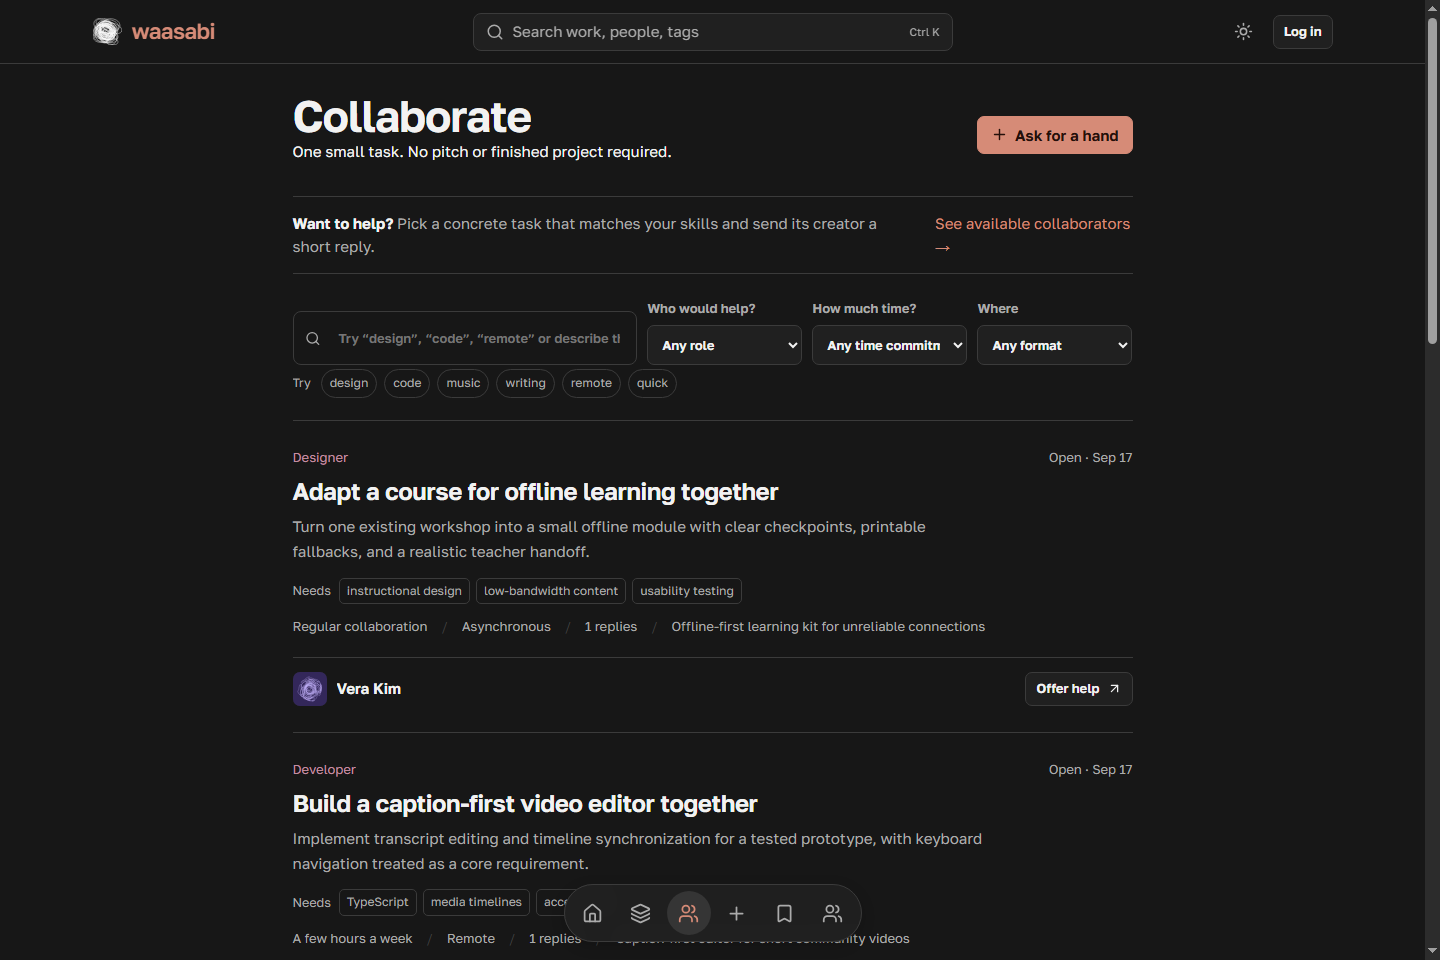
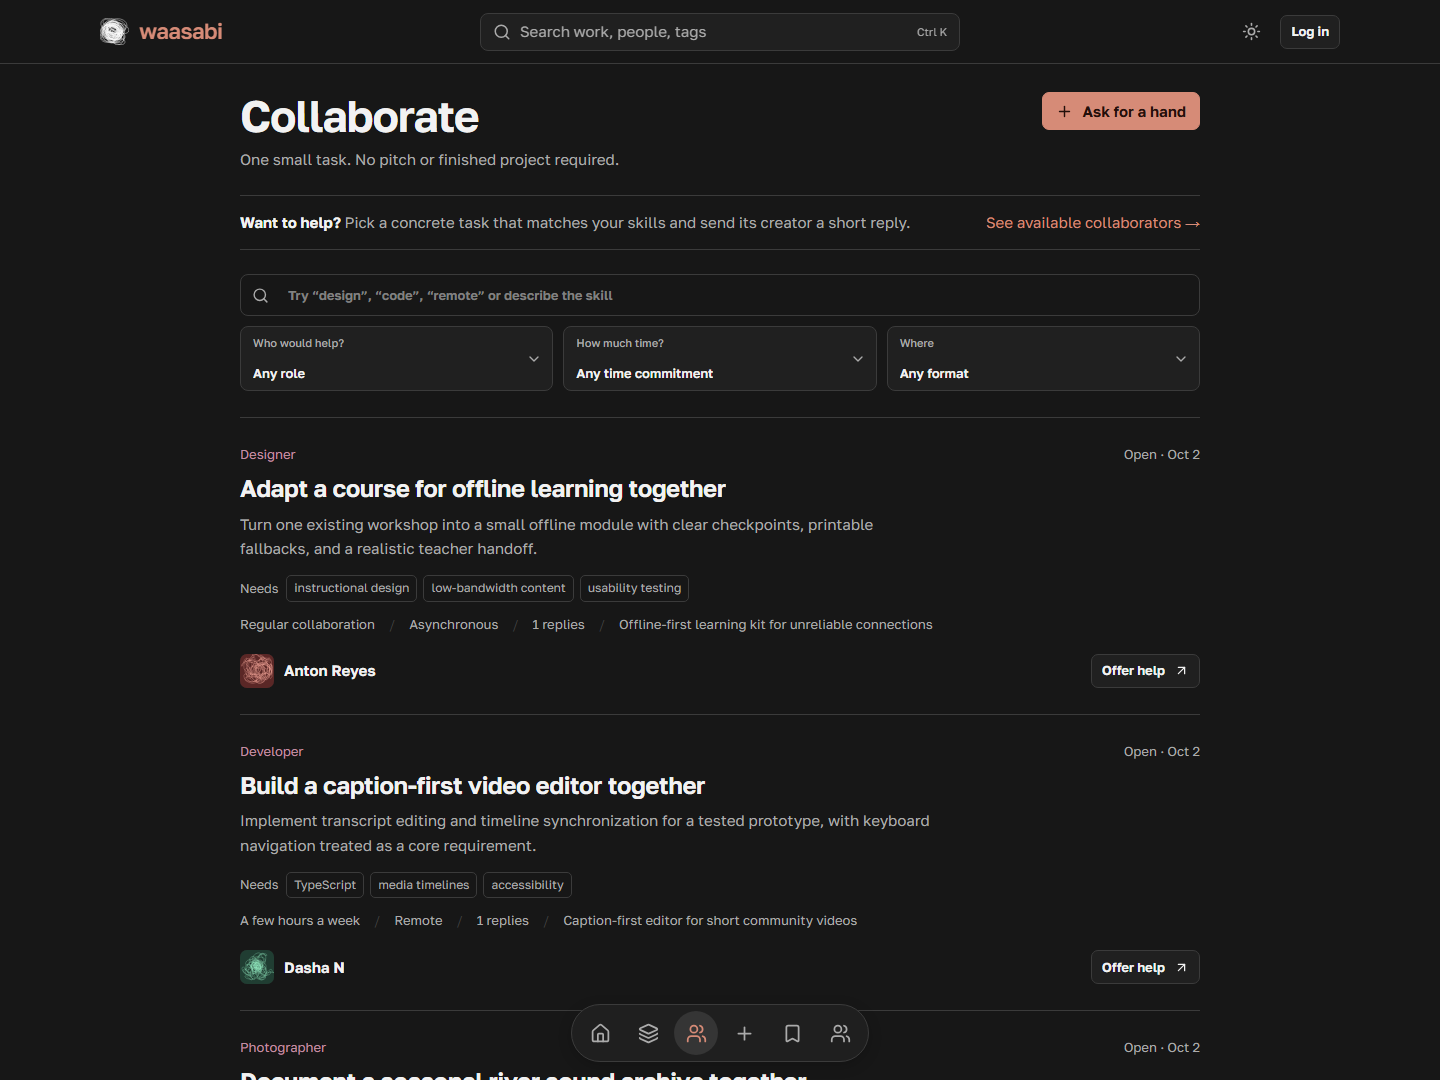
docs: refresh README and screenshot assets

diff --git a/database/seeders/ReadmeScreenshotSeeder.php b/database/seeders/ReadmeScreenshotSeeder.php
@@ -1,0 +1,58 @@
+<?php
+
+namespace Database\Seeders;
+
+use App\Models\Post;
+use App\Models\ProjectUpdate;
+use App\Models\User;
+use Illuminate\Database\Seeder;
+
+class ReadmeScreenshotSeeder extends Seeder
+{
+    public function run(): void
+    {
+        $this->call(WaasabiDemoSeeder::class);
+
+        $posts = [
+            ['night-bus-photo-essay', 'vera-kim', 'Night bus, after dark',
+                'Thirty evenings of rain, reflections, and the last route home.', 'night-bus'],
+            ['procedural-moss-game', 'emil-saar', 'Pocket Garden',
+                'A ten-minute exploration game. One courtyard, a little moss, and room to wander.', 'pocket-garden'],
+            ['open-source-looper-pedal', 'maja-lind', 'Loop: a repairable looper',
+                'An open-source music pedal with common parts and controls you can feel.', 'looper'],
+        ];
+
+        $users = User::query()->where('is_banned', false)->get();
+        foreach ($posts as $index => [$slug, $authorSlug, $title, $subtitle, $artwork]) {
+            $author = $users->firstWhere('slug', $authorSlug);
+            $post = Post::query()->where('slug', $slug)->firstOrFail();
+            $cover = '/images/readme/'.$artwork.'.jpg';
+            $post->update([
+                'user_id' => $author->id,
+                'is_project' => $artwork === 'looper',
+                'title' => $title,
+                'subtitle' => $subtitle,
+                'cover_url' => $cover,
+                'album_urls' => [],
+                'feedback_mode' => 'feedback',
+                'activity_at' => now()->subMinutes($index),
+            ]);
+            $post->forceFill(['created_at' => $post->published_at])->saveQuietly();
+            $post->upvoters()->sync($users->where('id', '!=', $author->id)->take(24 - $index * 3)->pluck('id'));
+            $author->update([
+                'featured_post_id' => $post->id,
+                'banner_url' => $cover,
+                'headline' => ['Documentary photographer', 'Independent game developer', 'Sound designer and hardware maker'][$index],
+            ]);
+            $author->showcaseProjects()->sync([$post->id => ['position' => 0]]);
+
+            if ($post->is_project) {
+                ProjectUpdate::updateOrCreate(['post_id' => $post->id, 'title' => 'First playable prototype'], [
+                    'user_id' => $author->id,
+                    'body' => "![The assembled looper prototype]({$cover})\n\nThe first enclosure is assembled. Four pads control record, play, overdub, and undo.\n\nNext: test the controls with musicians and publish the enclosure files.",
+                    'is_hidden' => false,
+                ]);
+            }
+        }
+    }
+}

diff --git a/README.md b/README.md
@@ -1,60 +1,162 @@
-# Waasabi
+<p align="center">
+  <img src="docs/screenshots/overview.gif" alt="Waasabi preview: feed, work, project, collaborations, and profile, one second per view" width="100%">
+</p>
 
-Waasabi is a community for software, IT, design, video production, and practical collaboration.
+<h1 align="center">Waasabi</h1>
 
-People can publish work, document a project, ask for feedback, and find collaborators. Each collaboration response opens a private conversation between the project owner and the candidate.
+<p align="center">
+  <strong>Share your work. Keep a project journal. Find a helping hand.</strong>
+</p>
 
-![Waasabi feed](docs/screenshots/feed.png)
+<p align="center">
+  <a href="#features">Features</a> ·
+  <a href="#screenshots">Screenshots</a> ·
+  <a href="#local-setup">Local setup</a> ·
+  <a href="#checks">Checks</a> ·
+  <a href="docs/README.md">Docs</a>
+</p>
 
-## Main features
+Waasabi is a community for people who build software, design interfaces, edit video, and make things together.
+Publish a finished work, document a project, or ask a practical question. Keep the work and its discussion in one place.
 
-- A discovery feed with tags, search, and hot and new sorting modes.
-- Work and question pages with media, discussions, feedback, and answer voting.
-- Project pages with journals, teams, followers, and open collaboration requests.
-- Profiles with project showcases, statistics, posts, and collaboration history.
-- Private collaboration threads for each response.
-- Notifications, saved work, moderation tools, and role-based access.
+## Features
+
+- **Share work.** Publish text, images, galleries, files, and links. Ask for feedback or discuss the result.
+- **Keep a project journal.** Add updates, invite a team, and let people follow your progress.
+  Turn a standalone work into a project without changing its address or losing its discussion.
+- **Ask questions.** Use answer voting and threaded replies to compare suggestions.
+- **Find a helping hand.** Describe a concrete task and the time it needs. A collaboration request can exist separately or belong to a project.
+  Each response opens a private conversation between the request author and the candidate.
+- **Build a profile.** Show your work, feature a project, list your skills, and show your availability.
+- **Discover and return.** Search work, people, and tags. Follow authors and projects, save work, and receive notifications.
+- **Moderate the community.** Review reports, manage content and accounts, and control access through roles and permissions.
 
 ## Screenshots
 
-| Work | Collaborations | Profile |
-| --- | --- | --- |
-| ![A published work](docs/screenshots/work.png) | ![Open collaboration requests](docs/screenshots/collaborations.png) | ![A creator profile](docs/screenshots/profile.png) |
+Expand a view to see the full image.
 
-The [screenshot workflow](.github/workflows/screenshots.yml) updates these images from seeded data after interface changes. Do not edit the PNG files manually.
+<details>
+<summary><strong>Feed · Photography, games, projects, and open requests</strong></summary>
+
+![Waasabi discovery feed with illustrated work and open collaboration requests](docs/screenshots/feed.png)
+
+</details>
+
+<details>
+<summary><strong>Work · Feedback, threaded replies, and comment sorting</strong></summary>
+
+![Waasabi work discussion with threaded replies and New, Old, and Best sorting](docs/screenshots/work.png)
+
+</details>
+
+<details>
+<summary><strong>Project · An ongoing build with updates and a team</strong></summary>
+
+![Waasabi music hardware project with an illustrated journal update and project details](docs/screenshots/project.png)
+
+</details>
+
+<details>
+<summary><strong>Collaborations · Concrete tasks and people who can help</strong></summary>
+
+![Waasabi collaboration page with role filters, time commitments, and open requests](docs/screenshots/collaborations.png)
+
+</details>
+
+<details>
+<summary><strong>Profile · Work, projects, and contributions in one place</strong></summary>
+
+![Waasabi profile page with a banner, creator statistics, and a project showcase](docs/screenshots/profile.png)
+
+</details>
+
+The [screenshot workflow](.github/workflows/screenshots.yml) captures these views from a dedicated sample database after interface changes.
+It also creates the GIF, with one second per view. The sample post covers use [generated artwork](docs/screenshots/artwork-prompts.md).
+
+<details>
+<summary><strong>Refresh the screenshots locally</strong></summary>
+
+The capture script needs Chrome, FFmpeg, and a local server.
+Create a separate SQLite database. Set `DB_DATABASE` to its absolute path before you run these commands:
+
+```bash
+php artisan migrate
+php artisan db:seed --class=ReadmeScreenshotSeeder
+php artisan serve --host=127.0.0.1 --port=8081
+```
+
+In another terminal, run `npm run screenshots`.
+If the server uses another address, set `WAASABI_URL` before capture.
+
+</details>
 
 ## Stack
 
-Waasabi uses Laravel 12, Inertia 3, React 19, TypeScript, Tiptap 3, and Vite. SQLite is the default local database.
+| Part | Tools |
+| --- | --- |
+| Server | PHP 8.2+, Laravel 12, Eloquent |
+| Interface | Inertia 3, React 19, TypeScript |
+| Editor | Tiptap 3, Markdown |
+| Assets | Vite |
+| Local database | SQLite |
+
+Laravel handles routes, validation, permissions, and data. React renders the main community pages through Inertia.
+Blade serves support and selected administrative pages. Node.js builds the assets.
 
 ## Local setup
 
-Requirements: PHP 8.2 or later, Composer 2, Node.js 22, SQLite, and GD.
+Install PHP 8.2 or later with PDO SQLite and GD, Composer 2, and Node.js 22.12 or later.
+Run these commands from the repository root. The file commands work in PowerShell and Bash.
 
 ```bash
 composer install
 npm ci
-cp .env.example .env
-touch database/waasabi.sqlite
+php -r "file_exists('.env') || copy('.env.example', '.env');"
+php -r "file_exists('database/waasabi.sqlite') || touch('database/waasabi.sqlite');"
 php artisan key:generate
 php artisan migrate
 php artisan storage:link
 npm run build
-php artisan serve
+php artisan serve --host=127.0.0.1 --port=8081
 ```
 
-Run `php artisan db:seed --class=WaasabiDemoSeeder` to add local sample content.
+Open **http://127.0.0.1:8081**.
+
+For sample work, profiles, and collaboration requests, run this command in another terminal:
+
+```bash
+php artisan db:seed --class=WaasabiDemoSeeder
+```
+
+To create an administrator, run `php artisan admin:create owner@example.com`.
+The command asks for a password.
+
+For interface development, run `npm run dev` in another terminal.
+On Windows, `./start.ps1` starts the local PHP server for an existing installation.
 
 ## Checks
 
 ```bash
 php artisan test
+php vendor/bin/pint --test
 npm test
 npm run build
 composer audit
 npm audit
 ```
 
-See [deployment](docs/DEPLOYMENT.md) and [architecture](docs/ARCHITECTURE.md) for more information.
+`npm run build` checks TypeScript before it builds the assets.
+PHP tests use a separate database.
 
-See [LICENSE](LICENSE) for the license terms.
+## Documentation
+
+- [Documentation index](docs/README.md) lists the project guides.
+- [Architecture](docs/ARCHITECTURE.md) explains the runtime and security boundaries.
+- [Codebase map](docs/CODEBASE_MAP.md) locates controllers, pages, models, and tests.
+- [Code cleanliness](docs/CODE_CLEANLINESS.md) defines the maintenance conventions.
+- [Maintenance plan](docs/MAINTENANCE_PLAN.md) lists recurring checks.
+- [Deployment](docs/DEPLOYMENT.md) covers production configuration, the scheduler, backups, and release commands.
+
+## License
+
+Copyright © KristopherZlo. All rights reserved. See [LICENSE](LICENSE) for the terms.

diff --git a/docs/screenshots/artwork-prompts.md b/docs/screenshots/artwork-prompts.md
@@ -1,0 +1,16 @@
+# Sample post artwork
+
+The README shows demonstration posts from a separate database.
+The built-in imagegen tool created these covers. The interface images are captures of the running application.
+
+## night-bus
+
+Use case: photorealistic-natural. Asset type: panoramic cover for a demonstration photography post in a creative community README, not an interface screenshot. Primary request: a striking, believable documentary photograph through a city bus window late at night, rain beads on glass, blurred amber streetlights and cool teal reflections, a passing illuminated tram at the far side, subtle analog film grain. Wide cinematic 21:9 horizontal composition, 1800x800 if possible. Quiet urban atmosphere, strong composition, deep charcoal shadows with warm copper highlights. No text, no brands, no watermark, no UI, no collage, no faces in focus.
+
+## pocket-garden
+
+Use case: stylized-concept. Asset type: panoramic cover artwork for a demonstration indie game post in a creative community README, not an interface screenshot. Primary request: a polished isometric indie game environment: one small overgrown stone courtyard suspended as a diorama, moss-covered steps, fern patches, a tiny weathered archway, little glowing pale flowers. Handmade low-poly forms with detailed soft textures, rendered like an independent game's art portfolio. Sage and vivid leafy greens, warm pale stone, quiet peach highlights, dark forest background. Wide cinematic 21:9 horizontal composition, 1800x800 if possible. Beautiful readable silhouette and material detail. No text, no UI, no watermarks, no characters, no collage.
+
+## looper
+
+Use case: product-mockup. Asset type: panoramic cover for a demonstration open-source music hardware project in a creative community README, not an interface screenshot. Primary request: a carefully made prototype audio looper pedal on a dark studio workbench, brushed aluminum rectangular enclosure, four large tactile amber-orange pads, two black rotary knobs, exposed tiny screws, an audio cable trailing away, printed circuit board and screwdriver slightly out of focus nearby. Side angle close-up with tangible materials and soft directional studio light. Charcoal, silver, copper and orange, restrained realistic industrial design. Wide cinematic 21:9 horizontal composition, 1800x800 if possible. No labels or text, no brands, no watermarks, no UI, no collage.
